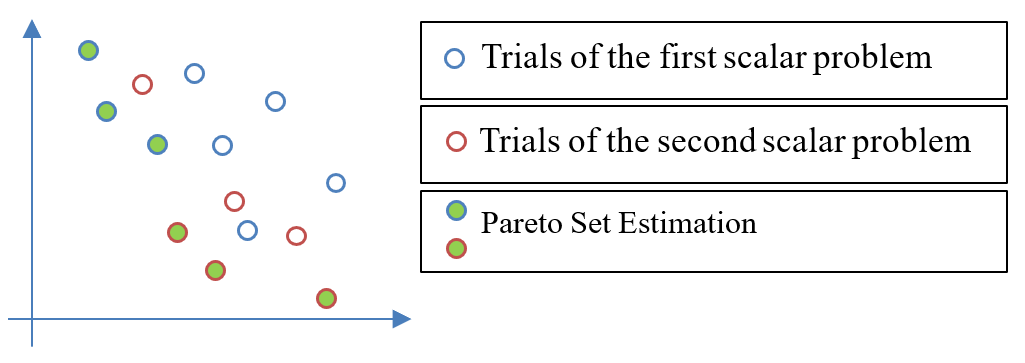
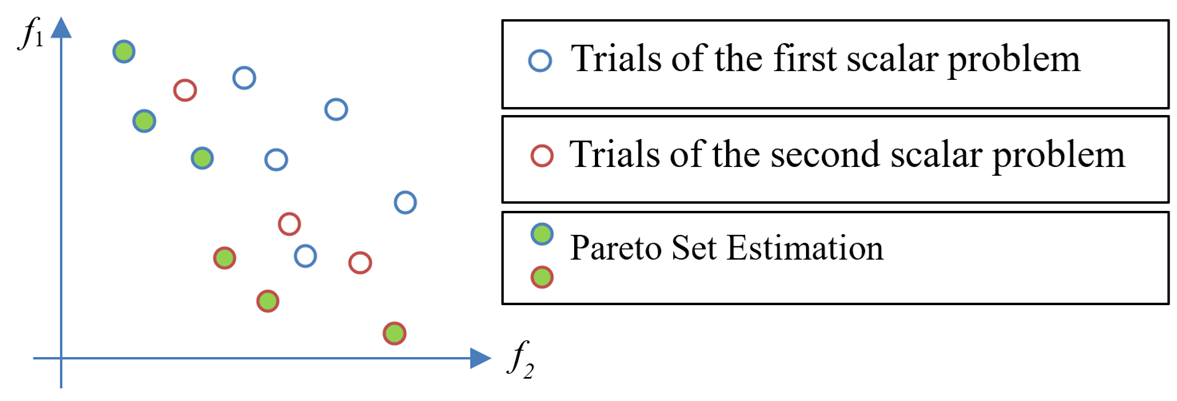
1. core -> kernel 2. fig2.png updeted

diff --git a/2025/RSCD_MCO/RSD-2025.tex b/2025/RSCD_MCO/RSD-2025.tex
@@ -239,7 +239,7 @@ Accumulation of search information allows more accurate estimation of the Pareto
 \begin{figure}
 \center
 \includegraphics[width=0.6\textwidth]{fig2.png}
-\caption{Example of Pareto set evaluation in solving two scalar optimization problems.} \label{fig2}
+\caption{Example of Pareto set evaluation in solving two scalar optimization problems (values in the domain of criteria values).} \label{fig2}
 \end{figure}
 
 
@@ -256,12 +256,12 @@ The characteristic $R_{GSA}(i)$ from (\ref{eq:15}) is used to find the global mi
 
 To calculate the value of $R_{PS}(i)$, we propose using machine learning methods. Various algorithms for calculation of  $R_{PS}(i)$ have been proposed in \cite{Konnov2025}. All proposed methods use the following scheme. In the course of solving the MCO problem, after every changing the coefficients  $\lambda_j$, $1 \leq j \leq \tau$, and therefore, moving to a new optimization problem from (\ref{eq:06}), all obtained trial points (\ref{eq:14}) are divided into two classes. The first class includes points belonging to the Pareto set. All other trial points belong to the second class. The quantity of points that do not belong to the Pareto set, as a rule, is significantly larger; therefore, the classes are not balanced. For more efficient work of machine learning algorithms, weights corresponding to the significance of trial points are set for each class, if possible. After training the model in the selected classes, the following approaches are used for building $R_{PS}(i)$.
 \begin{enumerate}
-	\item When using the Support Vector Classification (SVC) model with a linear core, $R_{PS}(i)$ is considered on the base of the distance to the dividing hyperplane.
-	\item	When using the SVC model with an arbitrary core, $R_{PS}(i)$ RP is built according to probabilities of belonging trial points to the first class (Pareto set).
+	\item When using the Support Vector Classification (SVC) model with a linear kernel, $R_{PS}(i)$ is considered on the base of the distance to the dividing hyperplane.
+	\item	When using the SVC model with an arbitrary kernel, $R_{PS}(i)$ RP is built according to probabilities of belonging trial points to the first class (Pareto set).
 	\item Neural network models are used as a new way to evaluate $R_{PS}(i)$. The method of calculating $R_{PS}(i)$ is similar to step 2.
 \end{enumerate}
 
-In the framework of the first approach, an SVC model with a linear core is built for computation $R_{PS}(i)$. Information is extracted from the model to construct a dividing hyperplane equation between the selected point classes in the criteria value space. The characteristic $R_{PS}(i)$ of the interval $[x_{i-1},x_i ]$ is considered as the sum of the distances of the criteria values  from the points $x_{i-1}$, $x_i$ to the hyperplane. The value below the hyperplane is taken with a plus sign, and above the hyperplane  with a minus sign.
+In the framework of the first approach, an SVC model with a linear kernel is built for computation $R_{PS}(i)$. Information is extracted from the model to construct a dividing hyperplane equation between the selected point classes in the criteria value space. The characteristic $R_{PS}(i)$ of the interval $[x_{i-1},x_i ]$ is considered as the sum of the distances of the criteria values  from the points $x_{i-1}$, $x_i$ to the hyperplane. The value below the hyperplane is taken with a plus sign, and above the hyperplane  with a minus sign.
 
 In the second approach, the probability of belonging  each of the points to the Pareto region is used instead of distances. $R_{PS}(i)$ is considered as the arithmetic mean of the calculated probability values for the points $x_{i-1}$ and $x_i$. This approach is more universal, since the counting method does not depend on the selected kernel. The method of calculating $R_{PS}(i)$ is described more detailed in \cite{Konnov2025}.
 
@@ -327,7 +327,7 @@ Results of the experiments for the following algorithms are presented (see subse
 \begin{enumerate}
 	\item MGSA -- machine learning elements are not used,
 	\item MGSA Dist -- the modified algorithm with computation $R_{PS}(i)$ from (\ref{eq:15}) based on distances,
-	\item MGSA Linear SVC, MGSA Poly SVC, MGSA Rbf SVC -- the algorithm modification with computation $R_{PS}(i)$ from (\ref{eq:15}) based on probabilities with different SVC algorithm core,
+	\item MGSA Linear SVC, MGSA Poly SVC, MGSA Rbf SVC -- the algorithm modification with computation $R_{PS}(i)$ from (\ref{eq:15}) based on probabilities with different SVC algorithm kernel,
 	\item MGSA NN -- the algorithm modification with computation $R_{PS}(i)$ from (\ref{eq:15}) on the base of probabilities obtained using neural networks.
 \end{enumerate}
 	
@@ -341,7 +341,7 @@ Fig. \ref{fig5} shows the dependence of the average value of the HV index on the
 \caption{Comparison of HV index values for sequential algorithm implementation.} \label{fig5}
 \end{figure}
 
-Based on the results of experiments with sequential implementation, all approaches using machine learning models exceed the MGSA algorithm by more than two times. Modifications of the algorithm can be distinguished that demonstrate the best results both in terms of the average number of iterations and in terms of the average HV. These include approaches using SVC (Linear, Rbf cores), a distance calculation approach, and neural networks with two hidden layers. Modification with one hidden layer shows slightly worse results. Modification  MGSA Poly SVC with polynomial core showed least improvement over MGSA. It is also worth noting that the modification of the MGSA Rbf SVC algorithm in the case of low accuracy demonstrates the best quality.
+Based on the results of experiments with sequential implementation, all approaches using machine learning models exceed the MGSA algorithm by more than two times. Modifications of the algorithm can be distinguished that demonstrate the best results both in terms of the average number of iterations and in terms of the average HV. These include approaches using SVC (Linear, Rbf kernels), a distance calculation approach, and neural networks with two hidden layers. Modification with one hidden layer shows slightly worse results. Modification  MGSA Poly SVC with polynomial kernel showed least improvement over MGSA. It is also worth noting that the modification of the MGSA Rbf SVC algorithm in the case of low accuracy demonstrates the best quality.
 
 Next, consider a parallel version of the algorithm (see subsection \ref{subsec35}). Table \ref{tab:1} shows the results of the average value of the trial number per process by tasks for each of the models in dependence on the number of processes. Accuracy $\varepsilon=0.01$ was used in the experiment. The number of processes used is indicated in the first row of the table. The three best modifications of the algorithm in terms of the average number of trials per process are shown in bold.
 
